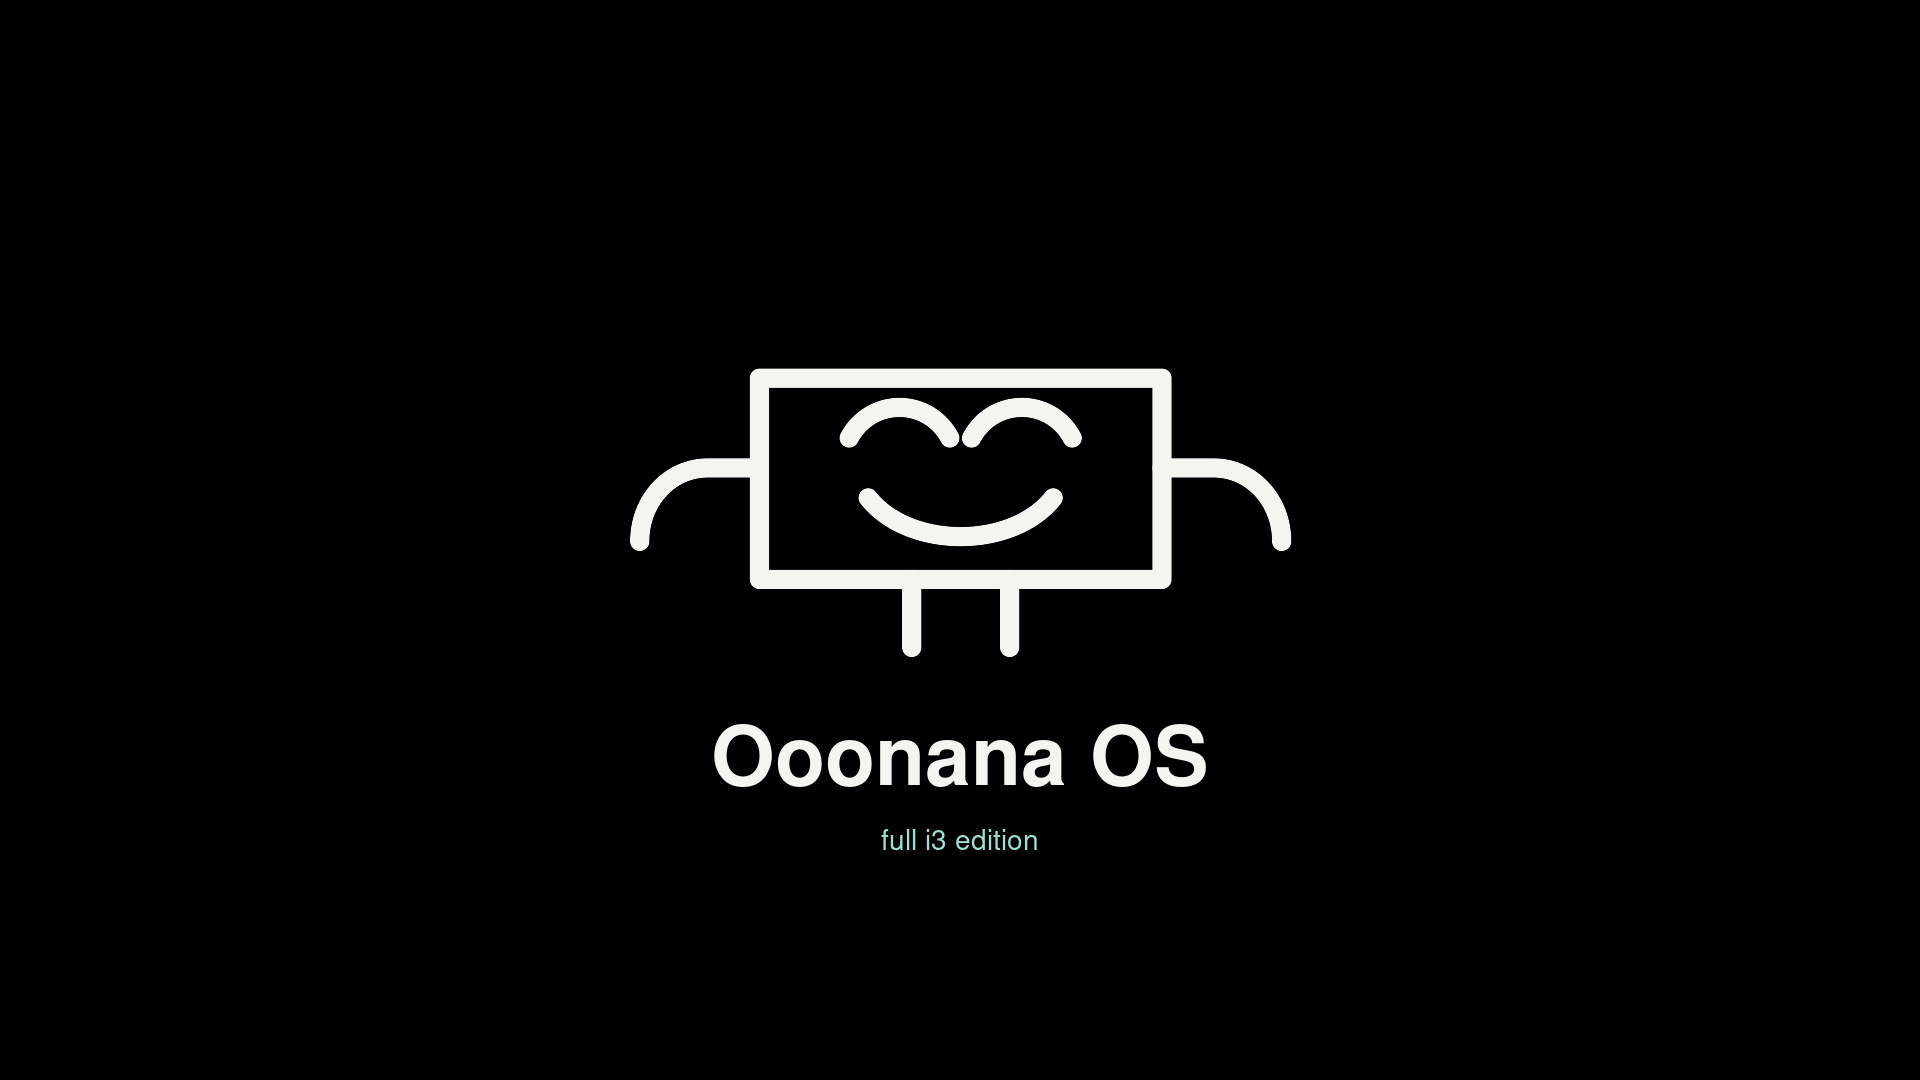
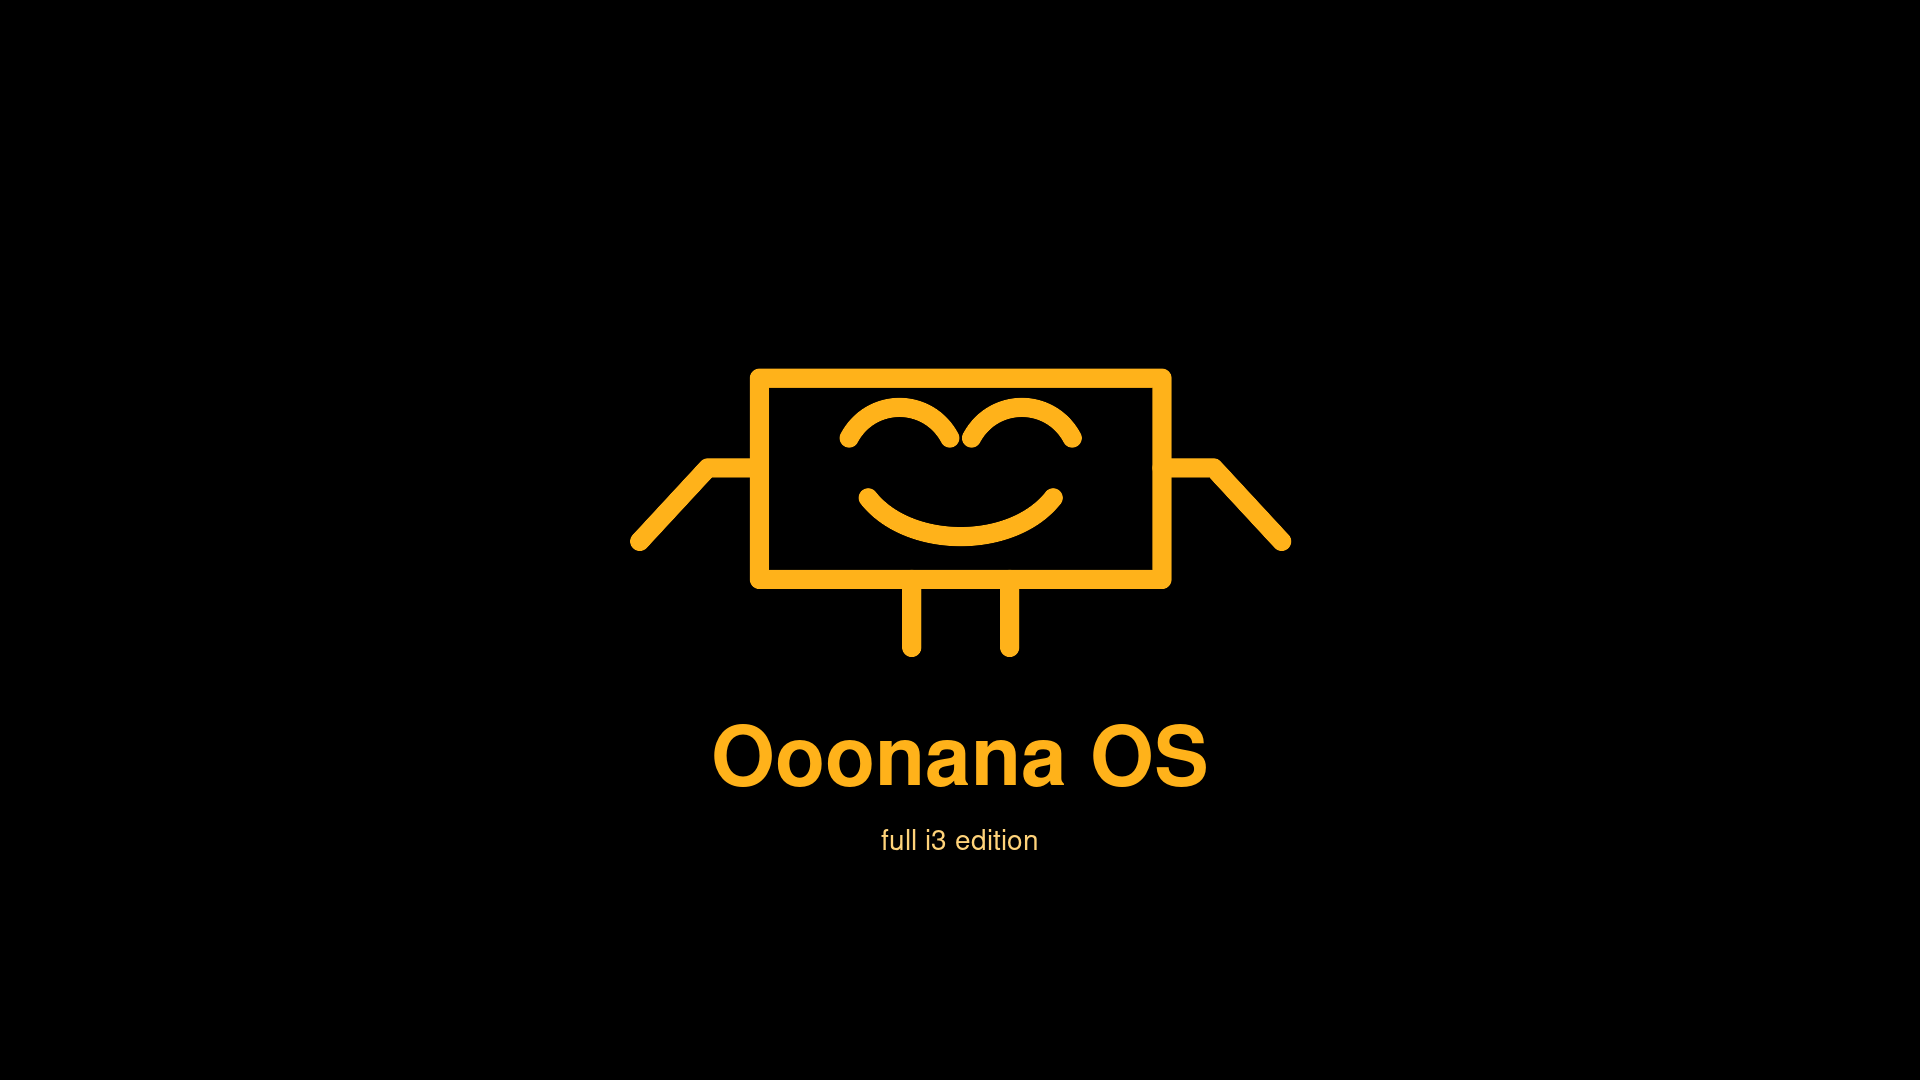
Set sunset branding and global package profiles

Changed region(s): [[0.3125, 0.3361, 0.6875, 0.6111], [0.375, 0.6722, 0.625, 0.7333], [0.4688, 0.7639, 0.5312, 0.7944]]

diff --git a/README.md b/README.md
@@ -206,6 +206,12 @@ bash scripts/import-apk-package.sh \
   nano
 ```
 
+Default cloud package profile:
+
+```text
+configs/packages/ooonana-repo.list
+```
+
 This creates:
 
 ```text
@@ -215,7 +221,16 @@ This creates:
 /tmp/ooonana-repo/SHA256SUMS
 ```
 
-The GitHub Actions workflow `Build Ooonana Packages` can run the same importer in cloud, upload the generated repo as artifacts, publish a tarball to GitHub Releases, and optionally deploy the repo to GitHub Pages. GitHub Pages is the direct HTTP repo path for `ooonana update`; Releases are backup storage for the repo tarball.
+The GitHub Actions workflow `Build Ooonana Packages` can run the same importer in cloud from a package profile, upload the generated repo as artifacts, publish a tarball to GitHub Releases, and optionally deploy the repo to GitHub Pages. GitHub Pages is the direct HTTP repo path for `ooonana update`; Releases are backup storage for the repo tarball.
+
+Cloud build defaults are repo-wide seed packages, not nano-only:
+
+```text
+package_profile=configs/packages/ooonana-repo.list
+packages="" for optional extras
+```
+
+Use `packages` for quick extras or change `package_profile` to another `.list` file. The importer builds requested packages plus dependencies; it does not mirror all Alpine packages.
 
 ## Full I3 Edition
 
@@ -255,6 +270,12 @@ Cloud package build:
 
 ```text
 GitHub Actions -> Build Ooonana Packages -> full_i3_profile=true
+```
+
+When `full_i3_profile=true`, the cloud build uses:
+
+```text
+configs/packages/full-i3.list
 ```
 
 After the generated repo is published to GitHub Pages and added to `/etc/ooonana/sources.d/cloud.repo`, this path is intended to work:
@@ -389,6 +410,8 @@ Kernel and package config:
 ```text
 configs/kernel/ooonana-minimal-x86_64.fragment
 configs/packages/core.list
+configs/packages/ooonana-repo.list
+configs/packages/full-i3.list
 ```
 
 Ooonana package: